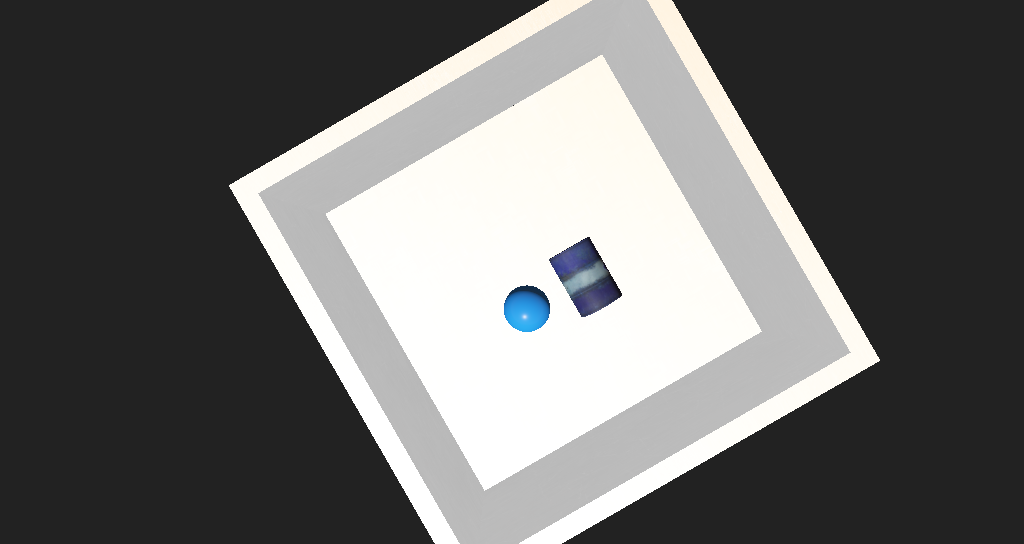
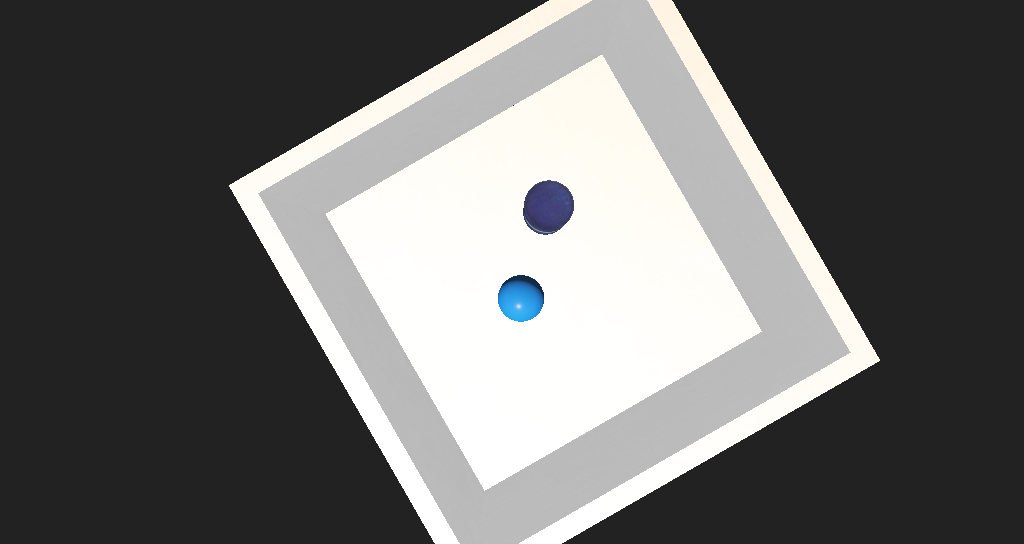
alguma coisa

Changed region(s): [[0.4688, 0.3125, 0.625, 0.625]]

diff --git a/data_generator_sara.py b/data_generator_sara.py
@@ -1,0 +1,63 @@
+from controller import Supervisor
+import numpy as np
+import cv2
+import os
+
+# Pasta onde salvar as imagens e labels
+save_dir = "images"
+os.makedirs(save_dir, exist_ok=True)
+os.makedirs(os.path.join(save_dir, "labels"), exist_ok=True)
+
+# Inicializa o supervisor
+supervisor = Supervisor()
+timestep = int(supervisor.getBasicTimeStep())
+
+# Câmara do robô
+camera = supervisor.getDevice("MultiSense S21 left camera")
+camera.enable(timestep)
+cam_width = camera.getWidth()
+cam_height = camera.getHeight()
+
+# Obtemos os dois objetos que queremos mover
+target1 = supervisor.getFromDef("BALL")
+target2 = supervisor.getFromDef("OIL_BARREL")
+
+target1_rotation = target1.getField("rotation")
+target2_rotation = target2.getField("rotation")
+
+# Permitir que os objetos caiam naturalmente durante 5 segundos
+print("A aguardar queda dos objetos...")
+for _ in range(int(5000 / timestep)):
+    supervisor.step(timestep)
+print("Início da captura.")
+
+img_counter = 0
+
+
+# Para 10 imagens
+for i in range(10):
+    # Define nova posição aleatória (dentro do campo de visão da câmara)
+    # Define nova rotação aleatória no eixo Y
+    angle1 = np.random.uniform(0, 3.14)
+    angle2 = np.random.uniform(0, 3.14)
+    target1_rotation.setSFRotation([0, 1, 0, angle1])
+    target2_rotation.setSFRotation([0, 1, 0, angle2])
+
+
+    for _ in range(int(2000 / timestep)):  # espera 2 segundos para a gravidade atuar
+        supervisor.step(timestep)
+
+    # Captura imagem
+    raw_image = camera.getImage()
+    img = np.frombuffer(raw_image, np.uint8).reshape((cam_height, cam_width, 4))
+    bgr = cv2.cvtColor(img, cv2.COLOR_RGBA2BGR)
+
+    print("ola")
+    img_path = os.path.join(save_dir, f"frame_{img_counter:04d}.png")
+    cv2.imwrite(img_path, bgr)
+
+    # Salva label YOLO
+    label_path = os.path.join(save_dir, "labels", f"frame_{img_counter:04d}.txt")
+
+    print(f"[{img_counter}] Salvo: {img_path}, Label: {label_path}")
+    img_counter += 1
